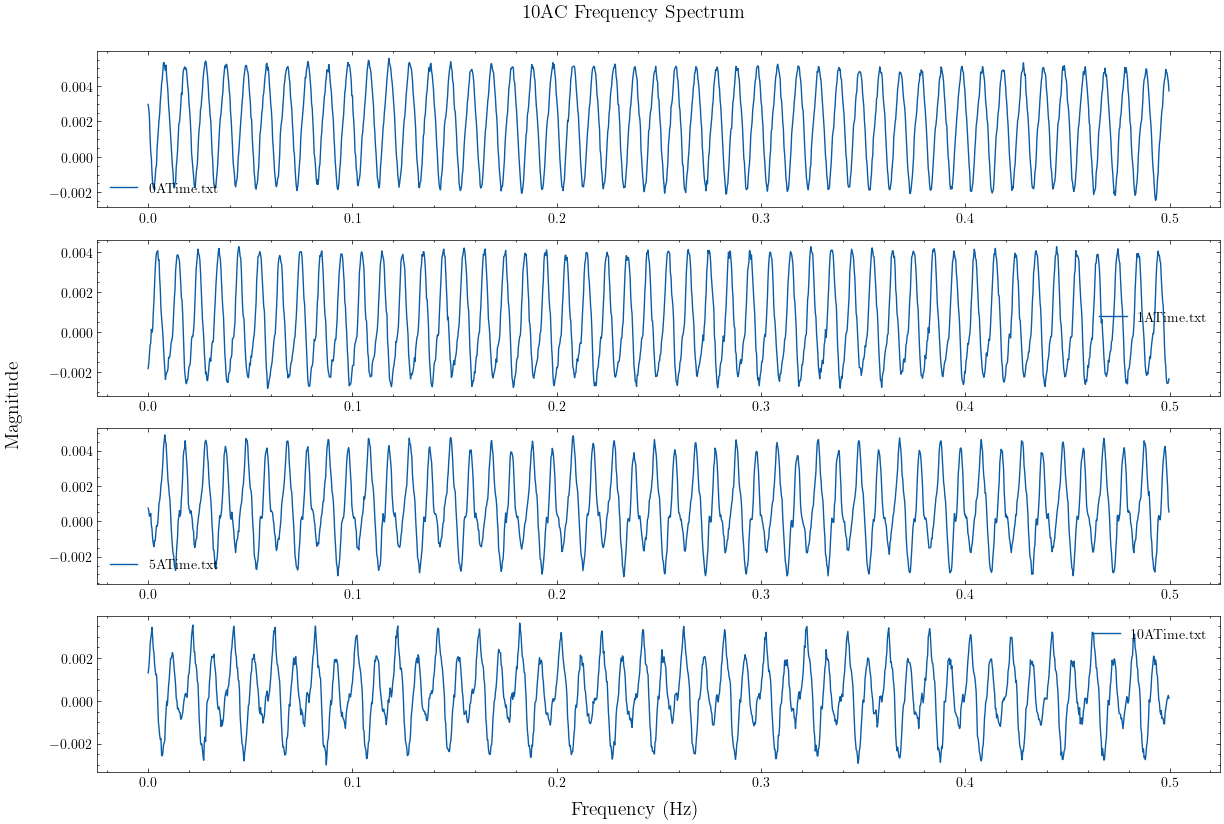
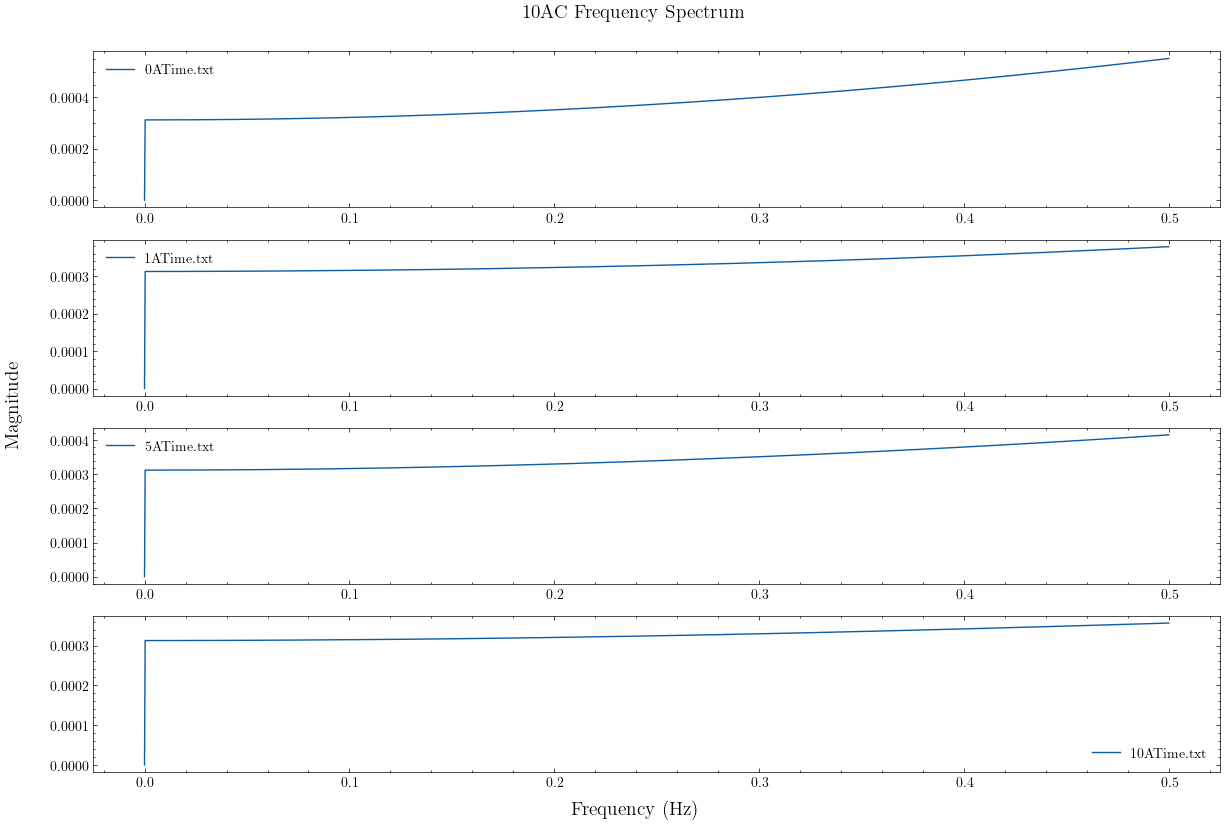
integration is doing things but not really working

diff --git a/ProcessData.py b/ProcessData.py
@@ -1,40 +1,36 @@
 import matplotlib.pyplot as plt
 import scienceplots 
+from scipy import integrate
 import numpy as np
 import os
 
+
+
 folder = 'NotShorted'
-# subfolder = '100AC'
-# filename = '1AFreq.txt'
-
-# subfolderList = ['10AC','20AC','30AC','40AC','50AC','60AC','70AC','80AC','90AC','100AC']
-# filenameList = ['0AFreq.txt','1AFreq.txt','5AFreq.txt','10AFreq.txt','15AFreq.txt']
-
 subfolderList = ['10AC','50AC','90AC']
 filenameList = ['0ATime.txt','1ATime.txt','5ATime.txt','10ATime.txt']
 
-# subfolderList = ['10AC']
-# filenameList = ['0AFreq.txt','1AFreq.txt','5AFreq.txt','10AFreq.txt']
-
 
 for subfolder in subfolderList:
+
+    #make result directory
     resultPath = subfolder + " Freq Plots"
     try:
         os.mkdir(resultPath)
     except:
         print('Directory Exists')
-
-
+    #file
     plt.style.use('science')
-    # Adjust the spacing between subplots
-    plt.subplots_adjust(left=0.1, right=0.9, top=0.9, bottom=0.1, wspace=0.4, hspace=2)
+    plt.subplots_adjust(left=0.1, right=0.9, top=0.9, bottom=0.1, wspace=0.4, hspace=2)     # Adjust the spacing between subplots
     # `wspace` controls the width space between columns
     # `hspace` controls the height space between rows
     fig, ax = plt.subplots(4,1,figsize=(15,10))
-    n = 0
     fig.suptitle(subfolder + " Frequency Spectrum", fontsize=14, y=0.9)  # Adjust y to lower the title
 
+    n = 0
     for filename in filenameList:
+
+        #Get the data
         dataPath = os.path.join(folder,subfolder,filename)
         with open(dataPath,'r') as file:
             data = file.readlines()
@@ -48,7 +44,7 @@ for subfolder in subfolderList:
             cols = line.split('\t')
             dataArray = np.vstack([dataArray,cols]) #vertically append
 
-        # index = np.where(dataArray[2:,1] == 1)[0] #find index for 1 second
+
 
         time = np.array(dataArray[2:,0],dtype= float)
         index = np.where(time == 0.5)[0] #find index for 1 second
@@ -56,7 +52,10 @@ for subfolder in subfolderList:
         x = np.array(time[0:index[0]],dtype= float)
         y = np.array(dataArray[2:index[0]+2,1], dtype= float)
 
-        ax[n].plot(x,y,label=filename.removesuffix("Freq.txt"))
+        velocity_cumulative = integrate.cumulative_trapezoid(y, x,initial=2)
+        displacement_cumulative = integrate.cumulative_trapezoid(velocity_cumulative,x,initial = 0)
+
+        ax[n].plot(x,displacement_cumulative,label=filename.removesuffix("Freq.txt"))
         # ax[n].set_xticks(np.arange(0,1300,100))    
         # ax[n].set_xlim(0,1300)
         # ax[n].set_ylim(0,0.015)
